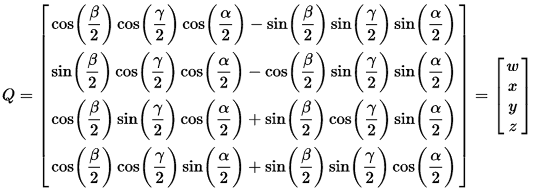
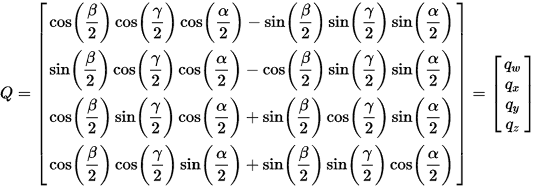
Update quaternion nomenclature in spec

Changed region(s): [[0.0, 0.0, 0.9906, 0.9637]]

diff --git a/spec-source-orientation.html b/spec-source-orientation.html
@@ -868,10 +868,10 @@ function getRotationMatrix( alpha, beta, gamma ) {
 
   <p>Another alternate orientation representation of device orientation data is as Quaternions. <a href="#ref-quaternions">[QUATERNIONS]</a>
 
-  <p style="height: 240px">To convert any provided deviceorientation values in to a Unit Quaternion representation we can use the following formula:
+  <p style="height: 240px">If Q represents the unit quaternion q in the earth frame XYZ, then since the inital body frame is aligned with the earth, Q is as follows.
 
     <object class="equation" data="equation14.xhtml" type="application/mathml+xml">
-      <img src="equation14.png" alt="Q = [[cos(beta)cos(gamma)cos(alpha) - sin(beta)sin(gamma)sin(alpha)], [sin(beta)cos(gamma)cos(alpha) - cos(beta)sin(gamma)sin(alpha)], [cos(beta)sin(gamma)cos(alpha) + sin(beta)cos(gamma)sin(alpha)], [cos(beta)cos(gamma)sin(alpha) + sin(beta)sin(gamma)cos(alpha)]] = [[w], [x], [y], [z]]">
+      <img src="equation14.png" alt="Q = [[cos(beta)cos(gamma)cos(alpha) - sin(beta)sin(gamma)sin(alpha)], [sin(beta)cos(gamma)cos(alpha) - cos(beta)sin(gamma)sin(alpha)], [cos(beta)sin(gamma)cos(alpha) + sin(beta)cos(gamma)sin(alpha)], [cos(beta)cos(gamma)sin(alpha) + sin(beta)sin(gamma)cos(alpha)]] = [[q_w], [q_x], [q_y], [q_z]]">
     </object>
 
   <p>The above quaternion can be represented in JavaScript as follows:
@@ -908,7 +908,7 @@ function getQuaternion( alpha, beta, gamma ) {
   <p>As a consistency check, we can check that a Unit Quaternion has been constructed correctly using Lagrange's four-square theorem
 
   <object class="equation" data="equation18.xhtml" type="application/mathml+xml">
-    <img src="equation18.png" alt="Q_x^2 * Q_y^2 * Q_z^2 * Q_w^2 = 1">
+    <img src="equation18.png" alt="q_w^2 * q_x^2 * q_y^2 * q_z^2 = 1">
   </object>
 
   <p>as expected.
